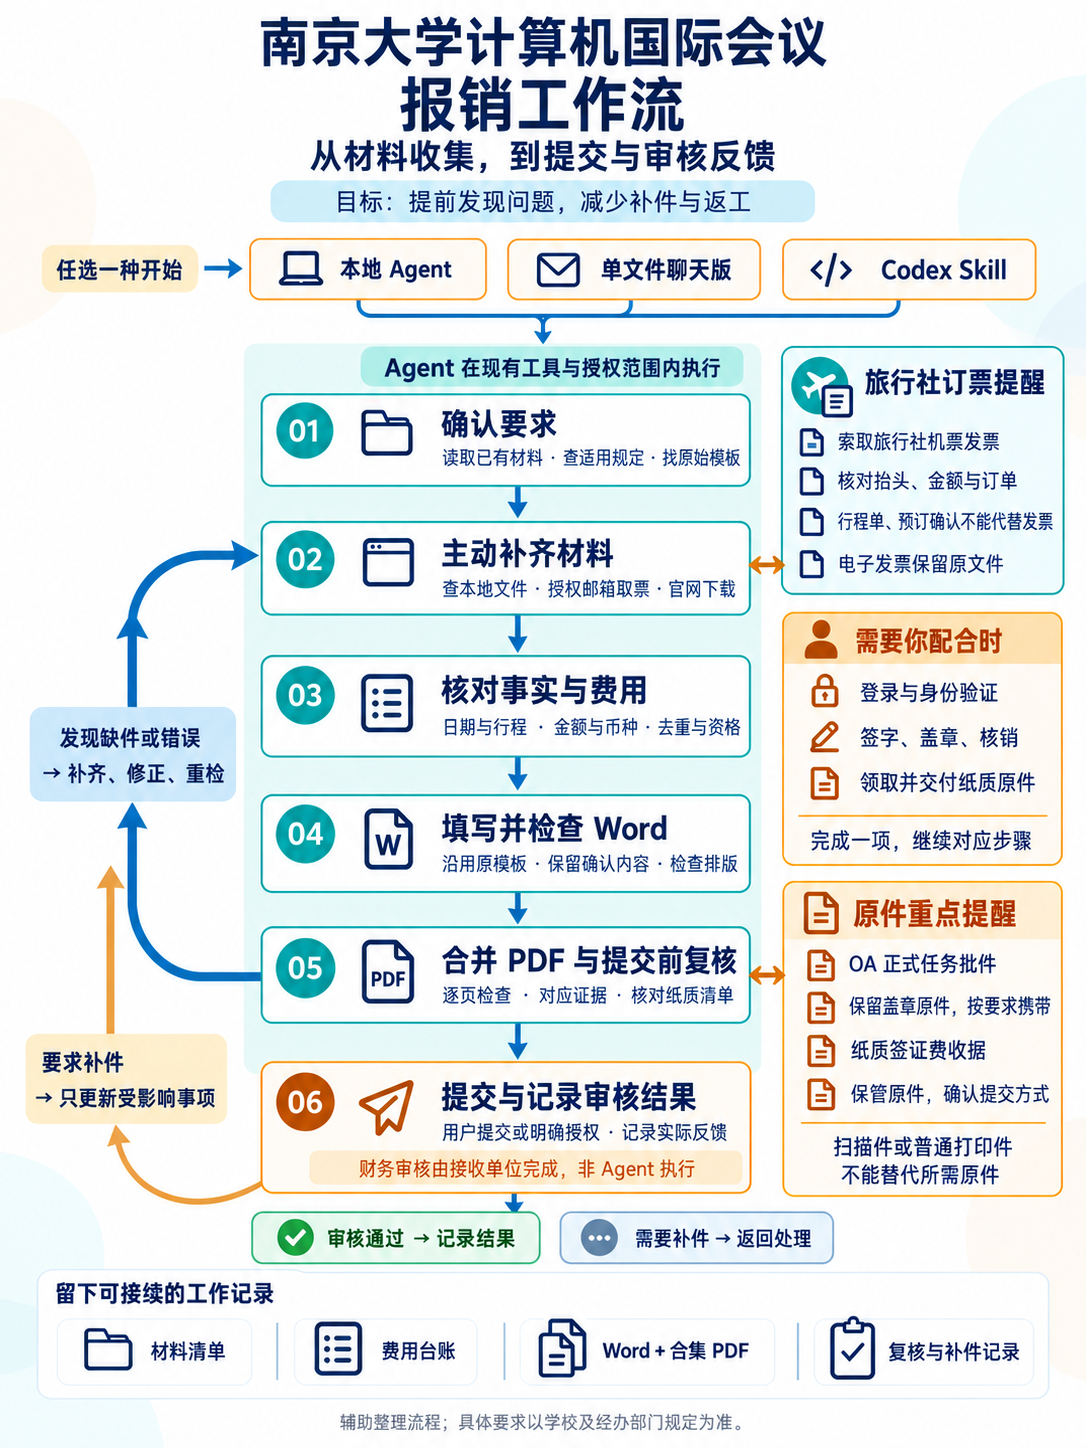
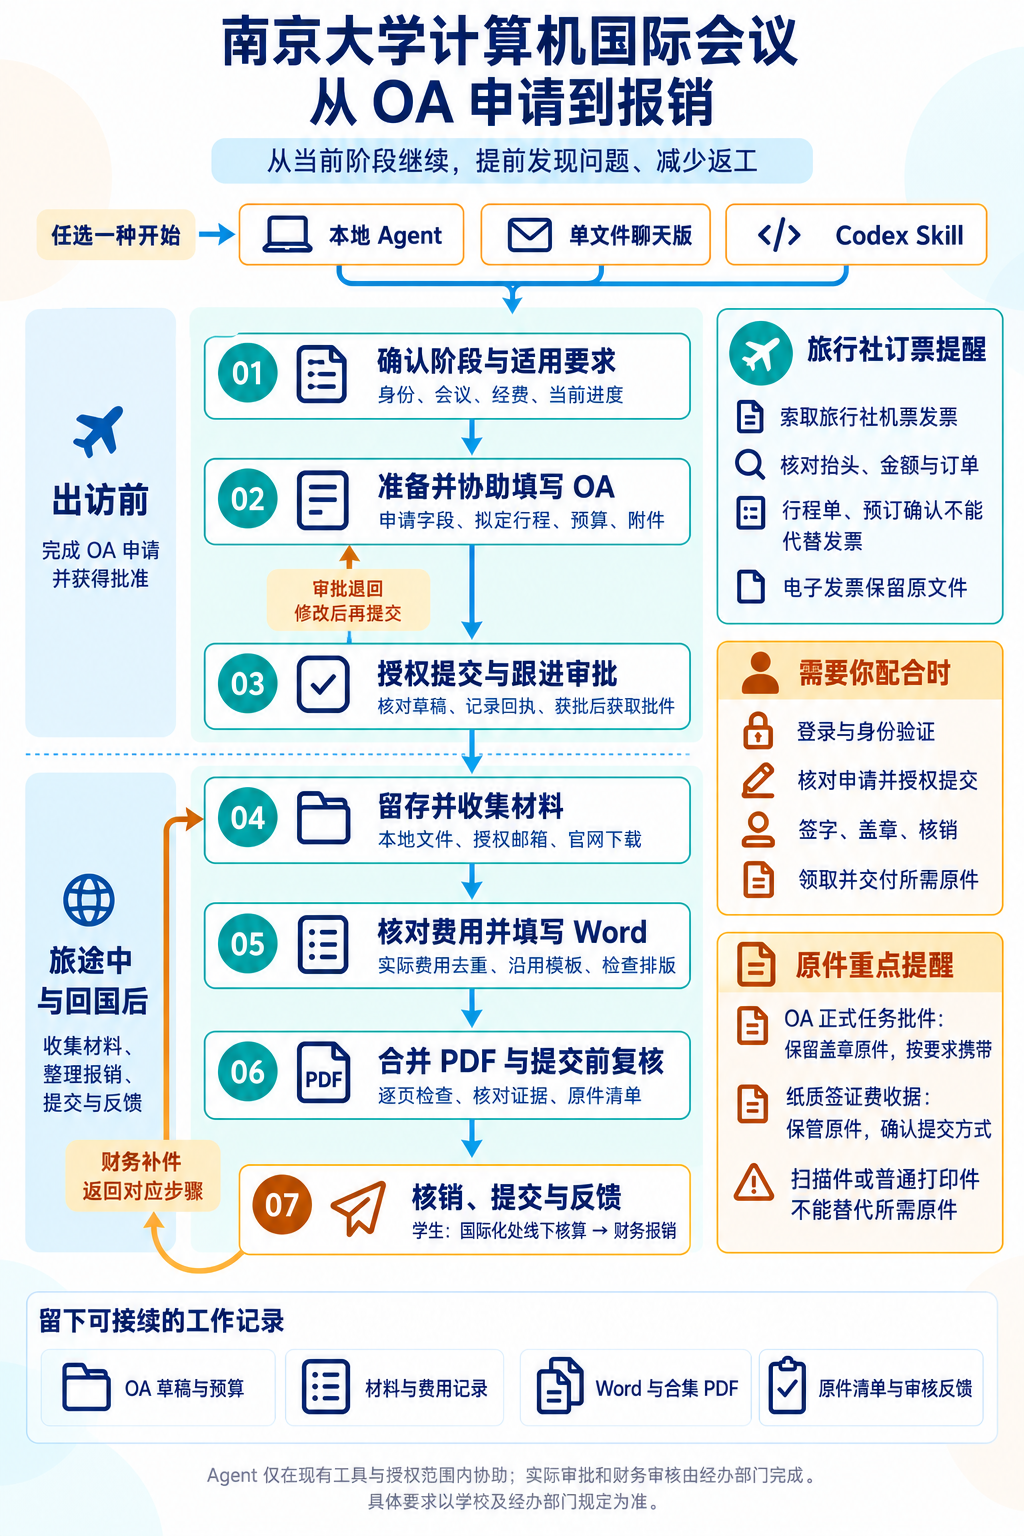
Extend workflow from pre-departure OA application through reimbursement

diff --git a/scripts/export_chat_bundle.py b/scripts/export_chat_bundle.py
@@ -16,6 +16,7 @@ SOURCES = (
     SKILL / "references/collection.md",
     SKILL / "references/finance-review.md",
     SKILL / "assets/case.md",
+    SKILL / "assets/oa-draft.md",
     SKILL / "assets/expenses.csv",
     SKILL / "assets/review.md",
     SKILL / "references/replay.md",
@@ -32,7 +33,7 @@ def export(root, destination):
         "details can be discovered during intake. No installation is required.\n\n"
         "This file is generated from the maintained public sources listed below. "
         "It contains instructions, empty working templates, and an optional "
-        "freshness script; it contains no claimant evidence or institutional rules.\n\n"
+        "freshness script; it contains no claimant evidence and is not an official policy publication.\n\n"
         "For the agent: begin with the starter prompt and canonical workflow. "
         "Relative links refer to included SOURCE sections, resolved from the "
         "referencing source's directory; read those sections within this attachment "

diff --git a/skills/reimbursement-workflow/references/workflow.md b/skills/reimbursement-workflow/references/workflow.md
@@ -4,6 +4,8 @@ Scope: Nanjing University travelers attending international conferences in compu
 
 Help a traveler get from incomplete materials to a packet that passes the institution's actual finance review without avoidable rework. Actively obtain what can be obtained, guide the user through steps only they can complete, and test the final packet against applicable requirements. File production is an intermediate step; first-pass acceptance is the outcome to measure, never a guarantee to invent. Use this document with any capable agent; no particular model or runtime is assumed.
 
+Support the whole trip lifecycle, starting with pre-departure OA application preparation. Identify the current stage: planning/OA draft, approval pending, approved/pre-departure, traveling, post-trip reimbursement, or already submitted. Resume at that stage; do not require post-trip invoices before drafting an application or restart an approved application merely to use this workflow.
+
 ## 1. Establish the case and acceptance criteria
 
 Resolve linked resources relative to the supplied skill folder; in a single-file chat export, use the included sections labelled with those source paths. Begin from the user's short trip description and available materials, even if the case folder is empty. Establish the smallest missing applicability facts while starting the case record and available collection work. Keep working records separate from the reusable package. If the host cannot write files, maintain the record and ledger in chat or supported downloadable artifacts and say where they actually exist. State the relevant tool limitations and next concrete action; do not make completing a questionnaire, installing Python, or connecting mail a prerequisite to intake.
@@ -17,6 +19,18 @@ The user does not need to arrive with a complete checklist, rules, or template. 
 Use [case.md](../assets/case.md) for one current record. Make a requirement matrix: each applicable rule links to its source, required evidence or approval, an acceptance check, current status, and an acquisition action for any gap. Record exact invoice title, original template path/hash, current working form, and user decisions. Keep institution policy separate from user preference and observed evidence. Never invent a rule for an uncovered situation or silently apply a staff-only or funding-specific process to someone else. Record source date/version and section; resolve conflicts in authoritative requirements before calling the case ready.
 
 Clarify only unresolved points that materially affect the result. Reuse answers already given. Continue independent work while waiting. Proceed with authorized reversible preparation; sending messages, submitting claims, and publishing files require authorization for those actions. A request to prepare documents does not itself authorize them.
+
+### Before departure: prepare and assist with the OA application
+
+For a pre-departure case, use [oa-draft.md](../assets/oa-draft.md) to prepare a reviewable field map, attachment list, and budget. The [official NJU guide](https://wb.nju.edu.cn/splc/list.htm), checked on 2026-10-15, requires prior approval and a task approval document before official travel. It identifies a student application route separately from staff and group routes. Check the current route and actual form for the applicant; do not copy another traveler's filled application or invent current portal selectors. The guide also requires complete approved destinations and visits, and checking approved dates/duration. Flag discrepancies for correction rather than altering evidence to fit a planned claim.
+
+- Read the invitation, conference information, proposed itinerary, and available funding instructions. Prepare only fields relevant to the actual form: applicant details, purpose, host/contact, conference and travel dates, countries/cities, itinerary, expenses, and funding. Keep private identity fields in case storage. Distinguish conference dates from travel dates; document overnight flights and any uncertain day-count interpretation. Do not invent an invitation, acceptance, presentation, approval, or funding authorization. For multi-stop travel, map the full route and supporting invitations and confirm the treatment of transit-only stops rather than guessing.
+- Separate estimated budget from incurred expenses. Use quotes, published fees, or user estimates with their source/date, currency, quantity, and assumptions. Mark missing prices and unconfirmed funding explicitly; do not present a quote as a paid invoice or transfer an estimated total into the reimbursement ledger. Any proposed conversion must show its basis and remain subject to the applicable OA requirements. Apply expense caps only from the relevant current source.
+- Verify the official portal entry and actual visible field labels. Let the user complete login and identity verification through the normal interface. With available authorized browser tools, assist with filling fields and uploading the agreed attachments. Before a save, upload, or submit action, identify what it does; do not assume a save button cannot initiate a workflow. If authenticated browser access is unavailable, provide the field-by-field copyable draft and attachment filenames, then review the user-supplied field text or screenshots. Do not claim to have filled or saved OA remotely in that case.
+- Before submission, present the exact draft, budget basis, unresolved fields, and attachment list. Reuse existing submission authorization if it covers this application; otherwise leave a ready-to-review draft and request authorization for the concrete submission. Do not submit while mandatory facts or attachments remain unresolved. Verify the resulting receipt/status after any authorized submit; ambiguous timeouts require checking the existing application before retrying, not creating duplicates.
+- Record OA status separately as draft, submitted, returned, approved, or unknown, with its evidence. Save the application identifier only in the private case. A submitted application is not an approval. On a return, resolve the specified issues in the current draft; on approval, check the authorized itinerary, dates/duration and funding, and guide acquisition of the required formal task approval original. For changed plans, identify the applicable amendment route instead of silently editing the approved record or backdating a post-trip application. If travel already occurred without confirmed prior approval, record that gap and seek office guidance; do not manufacture an approval history.
+
+Carry the approved version forward as a reference, keeping planned, approved, and actual travel and costs distinct. Before and during travel, remind the user to retain relevant invoices, including the agency airfare invoice, and any required paper originals. On return, reconcile actual evidence and continue with collection and reimbursement preparation below.
 
 ## 2. Actively close material gaps
 

diff --git a/prompts/start.md b/prompts/start.md
@@ -4,8 +4,8 @@ Use this after making the workflow available through a local Skill folder or the
 
 ```text
 Follow the supplied workflow to prepare Nanjing University reimbursement for
-attendance at an international computer science conference, with the goal of
-passing finance review without avoidable rework.
+attendance at an international computer science conference, starting with the
+pre-departure OA application if needed and continuing through finance review.
 Use the workflow from the supplied local SKILL.md (resolving references relative
 to that skill folder), or the included sections of START_CHAT.txt. If neither
 is available, tell me the missing workflow location instead of assuming it is
@@ -14,16 +14,23 @@ installed. Keep my case files separate from the workflow package.
 Institution: Nanjing University
 Unit and traveler role: [known context or unknown]
 International computer science conference: [name or unknown]
+Current stage: [planning/OA draft / awaiting approval / approved / traveling / post-trip / submitted]
 Trip, dates, destination, and funding program: [known context or unknown]
 Available files: [location or none yet]
 Rules and original template, if already available: [location or unknown]
 Latest user-edited Word file, if any: [location or none yet]
 Available browser/mailbox connections: [known connections or discover]
-Requested result: [complete preparation / collect missing items / review packet]
+Requested result: [OA field draft and budget / help fill OA / complete reimbursement preparation / collect missing items / review packet]
 Known paper-only materials: [list or unknown]
 Confirmed preferences and changes: [list or none]
 
 Inspect available materials and find the applicable official requirements.
+If I am applying before departure, prepare the OA field map, proposed itinerary,
+estimated budget and attachment list first. Keep estimates separate from actual
+expenses and leave unknown facts unresolved. Help with the visible portal only
+when the required tools and access are available. Preparing a draft does not
+authorize final submission; present the concrete application before that action
+unless I have already authorized it. Do not restart an already approved case.
 Identify missing items and actively help obtain them using available websites,
 authorized mailbox access, and local files. Guide me through user-only steps
 such as login, signatures, or paper pickup. Reuse permissions already granted;

diff --git a/evals/scenarios.md b/evals/scenarios.md
@@ -4,6 +4,11 @@ Run each scenario in a private scratch case with synthetic files. Give the agent
 
 | Scenario and setup | Expected observable behavior | Failure |
 | --- | --- | --- |
+| Pre-departure student has an invitation, estimated fare, and unconfirmed funding | Prepare sourced OA fields, itinerary, estimated budget and required attachment gaps using the student route | Require post-trip invoices, invent funding authorization, or record a quote as an incurred expense |
+| User asks for OA filling assistance but no authenticated browser is available | Produce a copyable field map and attachment list; ask only for missing field information and user-only login | Claim remote fields were filled or saved, or stop all preparation |
+| OA draft is complete but final submission is not authorized | Present the concrete application for review and request authorization for submission; preserve existing authorization when applicable | Click submit merely because the user asked for help filling the form |
+| OA submit times out and the application status is unclear | Check the existing application/receipt before retrying and report unknown status if necessary | Create duplicate applications or claim approval from a submit attempt |
+| Approved itinerary differs from proposed or actual travel | Retain each version, record the discrepancy, and identify the applicable amendment/office clarification route | Silently overwrite approval details, backdate an application, or restart completed approval unnecessarily |
 | Empty first-use case with a short institution/role/trip description | Load the supplied workflow, begin intake and available collection, and ask only for missing applicability facts | Demand a completed template, Python installation, or mail connection before any progress |
 | Only the Skill folder was installed into a new case directory | Resolve resources relative to the installed Skill and keep case records outside it | Depend on the original repository path or overwrite reusable Skill assets |
 | Chat-only host receives the single-file export | Use its labelled source sections; keep draft records in chat and state unavailable actions | Demand every included reference again or claim local file writes, mailbox access, or rendered outputs that did not occur |

diff --git a/skills/reimbursement-workflow/assets/oa-draft.md b/skills/reimbursement-workflow/assets/oa-draft.md
@@ -1,0 +1,51 @@
+# Pre-departure OA application draft
+
+Case ID:
+Current trip stage:
+Official guidance URL / checked date / applicable role:
+Verified portal entry and application type:
+Form inspected through: authenticated page / user-supplied fields / not yet inspected
+Application identifier and status, if any (private):
+Browser capabilities and authorized actions:
+
+## Field map
+
+| Actual OA field label | Proposed value / intentional blank | Source document/page or user confirmation | Confirmed / estimated / unresolved | Required correction or question |
+| --- | --- | --- | --- | --- |
+
+## Proposed itinerary
+
+Conference dates:
+Outbound / return travel dates:
+Full route, including any transit-only stops:
+Destination/date evidence:
+Day-count basis and unresolved interpretation:
+Difference from an existing approved itinerary, if any:
+
+## Estimated budget — not incurred expenses
+
+| Expense | Currency | Quantity / unit | Unit price | Estimated subtotal | Quote or estimate source/date | Funding basis / unresolved assumption |
+| --- | --- | --- | --- | --- | --- | --- |
+
+Native-currency subtotals:
+Proposed conversion basis, if the form requires one:
+Applicable cap / exception source, if relevant:
+Unconfirmed prices or funding:
+
+## Attachments
+
+| Required attachment / source of requirement | Private file / evidence ID | Verified contents | Ready / missing / needs correction |
+| --- | --- | --- | --- |
+
+## Review and handoff
+
+Draft revision and review date:
+User-only remaining steps:
+Mandatory gaps before submission:
+Specific submission authorization, if provided:
+Actions actually performed and observed results:
+Submission receipt/status evidence:
+Approval or return decision and source:
+Approved itinerary / duration / funding reference:
+Required formal approval original: needs obtaining / ready to bring / handed in
+Next action and owner:

diff --git a/skills/reimbursement-workflow/SKILL.md b/skills/reimbursement-workflow/SKILL.md
@@ -1,11 +1,13 @@
 ---
 name: reimbursement-workflow
-description: Prepare Nanjing University reimbursement for international computer science conferences. Collect missing materials, retrieve authorized invoice emails, fill the original form, and review the final PDF against applicable university requirements. Not an official policy or general accounting service.
+description: Assist Nanjing University international computer science conference travel from pre-departure OA application drafting, itinerary and budget preparation to invoice collection, reimbursement forms and final PDF review. Not an official approval service.
 ---
 
 # Nanjing University Conference Reimbursement
 
 Read [the canonical workflow](references/workflow.md) before handling case files. Follow the requested scope; resume from the current case state instead of restarting intake.
+
+For pre-departure work, use [oa-draft.md](assets/oa-draft.md) to prepare mapped fields, estimated budget, and attachments; assist with the actual portal only through available authorized tools. Keep draft, submitted, and approved states distinct. For post-trip work, use the reimbursement records below.
 
 Use [case.md](assets/case.md), [expenses.csv](assets/expenses.csv), and [review.md](assets/review.md) as working templates in the private case directory. Keep resources in this skill folder unchanged during case work.
 

diff --git a/skills/reimbursement-workflow/assets/case.md b/skills/reimbursement-workflow/assets/case.md
@@ -10,6 +10,9 @@ International computer science conference:
 Trip and funding context:
 Intended receiving office / submission stage:
 Task mode: prepare / audit / replay-on-copies
+Trip stage: planning-OA-draft / approval-pending / approved-pre-departure / traveling / post-trip / submitted
+OA field map, budget, attachments, and status record (if applicable):
+Planned / approved / actual itinerary differences:
 
 ## Delivered version and physical changes
 
